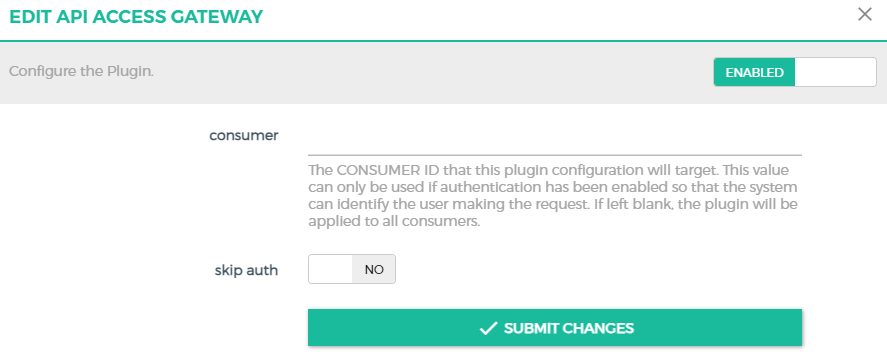
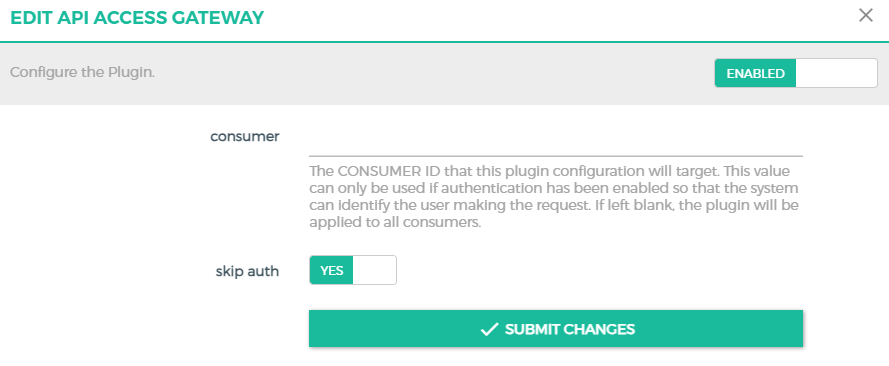
update skip_auth

diff --git a/README.md b/README.md
@@ -34,7 +34,8 @@ docker run -d --name kong-database \
      -e "POSTGRES_PASSWORD=kong" \
      postgres:9.6
 
-// docker run -d --name kong-database --network=kong-net -p 5432:5432 -e "POSTGRES_DB=kong" -e "POSTGRES_USER=kong" -e "POSTGRES_PASSWORD=kong" postgres:9.6
+// 换行
+docker run -d --name kong-database --network=kong-net -p 5432:5432 -e "POSTGRES_DB=kong" -e "POSTGRES_USER=kong" -e "POSTGRES_PASSWORD=kong" postgres:9.6
 ```
 
 3. 初始化数据库
@@ -48,7 +49,8 @@ docker run --rm \
      -e "KONG_PG_PASSWORD=kong" \
      kong:latest kong migrations bootstrap
 
-// docker run --rm --network=kong-net -e "KONG_DATABASE=postgres" -e "KONG_PG_HOST=kong-database" -e "KONG_PG_USER=kong" -e "KONG_PG_PASSWORD=kong" kong:latest kong migrations bootstrap
+// 换行
+docker run --rm --network=kong-net -e "KONG_DATABASE=postgres" -e "KONG_PG_HOST=kong-database" -e "KONG_PG_USER=kong" -e "KONG_PG_PASSWORD=kong" kong:latest kong migrations bootstrap
 ```
 
 4. 启动kong
@@ -74,9 +76,11 @@ docker run -it -d --name kong \
      -p 127.0.0.1:8444:8444 \
      kong-gateway
 
+// 换行
+docker run -it -d --name kong --network=kong-net -e "KONG_DATABASE=postgres" -e "KONG_PG_HOST=kong-database" -e "KONG_PG_USER=kong" -e "KONG_PG_PASSWORD=kong" -e "KONG_PROXY_ACCESS_LOG=/dev/stdout" -e "KONG_ADMIN_ACCESS_LOG=/dev/stdout" -e "KONG_PROXY_ERROR_LOG=/dev/stderr" -e "KONG_ADMIN_ERROR_LOG=/dev/stderr" -e "KONG_ADMIN_LISTEN=0.0.0.0:8001, 0.0.0.0:8444 ssl" --env "KONG_PLUGINS=bundled,api-access-gateway" --env "KONG_LUA_PACKAGE_PATH=./?.lua;./?/init.lua;/data/kong/?.lua;" -v D:\\kong-gateway:/data/kong -p 8000:8000 -p 8443:8443 -p 127.0.0.1:8001:8001 -p 127.0.0.1:8444:8444 kong-gateway
+
 // -it参数表示伪终端，-d参数表示后台运行
 // D:\\kong-gateway 修改为本地路径
-// docker run -it -d --name kong --network=kong-net -e "KONG_DATABASE=postgres" -e "KONG_PG_HOST=kong-database" -e "KONG_PG_USER=kong" -e "KONG_PG_PASSWORD=kong" -e "KONG_PROXY_ACCESS_LOG=/dev/stdout" -e "KONG_ADMIN_ACCESS_LOG=/dev/stdout" -e "KONG_PROXY_ERROR_LOG=/dev/stderr" -e "KONG_ADMIN_ERROR_LOG=/dev/stderr" -e "KONG_ADMIN_LISTEN=0.0.0.0:8001, 0.0.0.0:8444 ssl" --env "KONG_PLUGINS=bundled,api-access-gateway" --env "KONG_LUA_PACKAGE_PATH=./?.lua;./?/init.lua;/data/kong/?.lua;" -v D:\\kong-gateway:/data/kong -p 8000:8000 -p 8443:8443 -p 127.0.0.1:8001:8001 -p 127.0.0.1:8444:8444 kong-gateway
 ```
 访问：http://localhost:8001/
 
@@ -90,7 +94,8 @@ docker run -d --name konga \
      -p 1337:1337 \
      pantsel/konga
 
-// docker run -d --name konga --network kong-net -e "DB_ADAPTER=postgres" -e "DB_URI=postgresql://kong:kong@kong-database:5432/konga" -p 1337:1337 pantsel/konga
+// 换行
+docker run -d --name konga --network kong-net -e "DB_ADAPTER=postgres" -e "DB_URI=postgresql://kong:kong@kong-database:5432/konga" -p 1337:1337 pantsel/konga
 ```
 访问：http://localhost:1337/
 
@@ -145,7 +150,7 @@ curl -i -X POST \
 ```
 curl -i -X POST \
 --url http://localhost:8001/routes/e72acd4e-3f72-4075-afe3-60e77a09a932/plugins \
---data '{"name":"api-access-gateway","config":{"skip_auth":false}}' \
+--data '{"name":"api-access-gateway","config":{"skip_auth":true}}' \
 ```
 
 - 图形方式：
@@ -171,13 +176,13 @@ TestToken
 eyJhbGciOiJIUzI1NiIsInR5cCI6IkpXVCJ9.eyJpc3MiOiJyb3JvIiwidWlkIjoyMDIxMzE0fQ.SGv-R0BWv6rYzYW9i-ZvfxNZbOygNGirRxHUoncIEMQ
 ```
 
-- skip_auth = false
+- skip_auth = true
 
 ![](docs/test-1-1.png)
 
 ![](docs/test-1-2.png)
 
-- skip_auth = true
+- skip_auth = false
 
 ![](docs/test-2-1.png)
 
